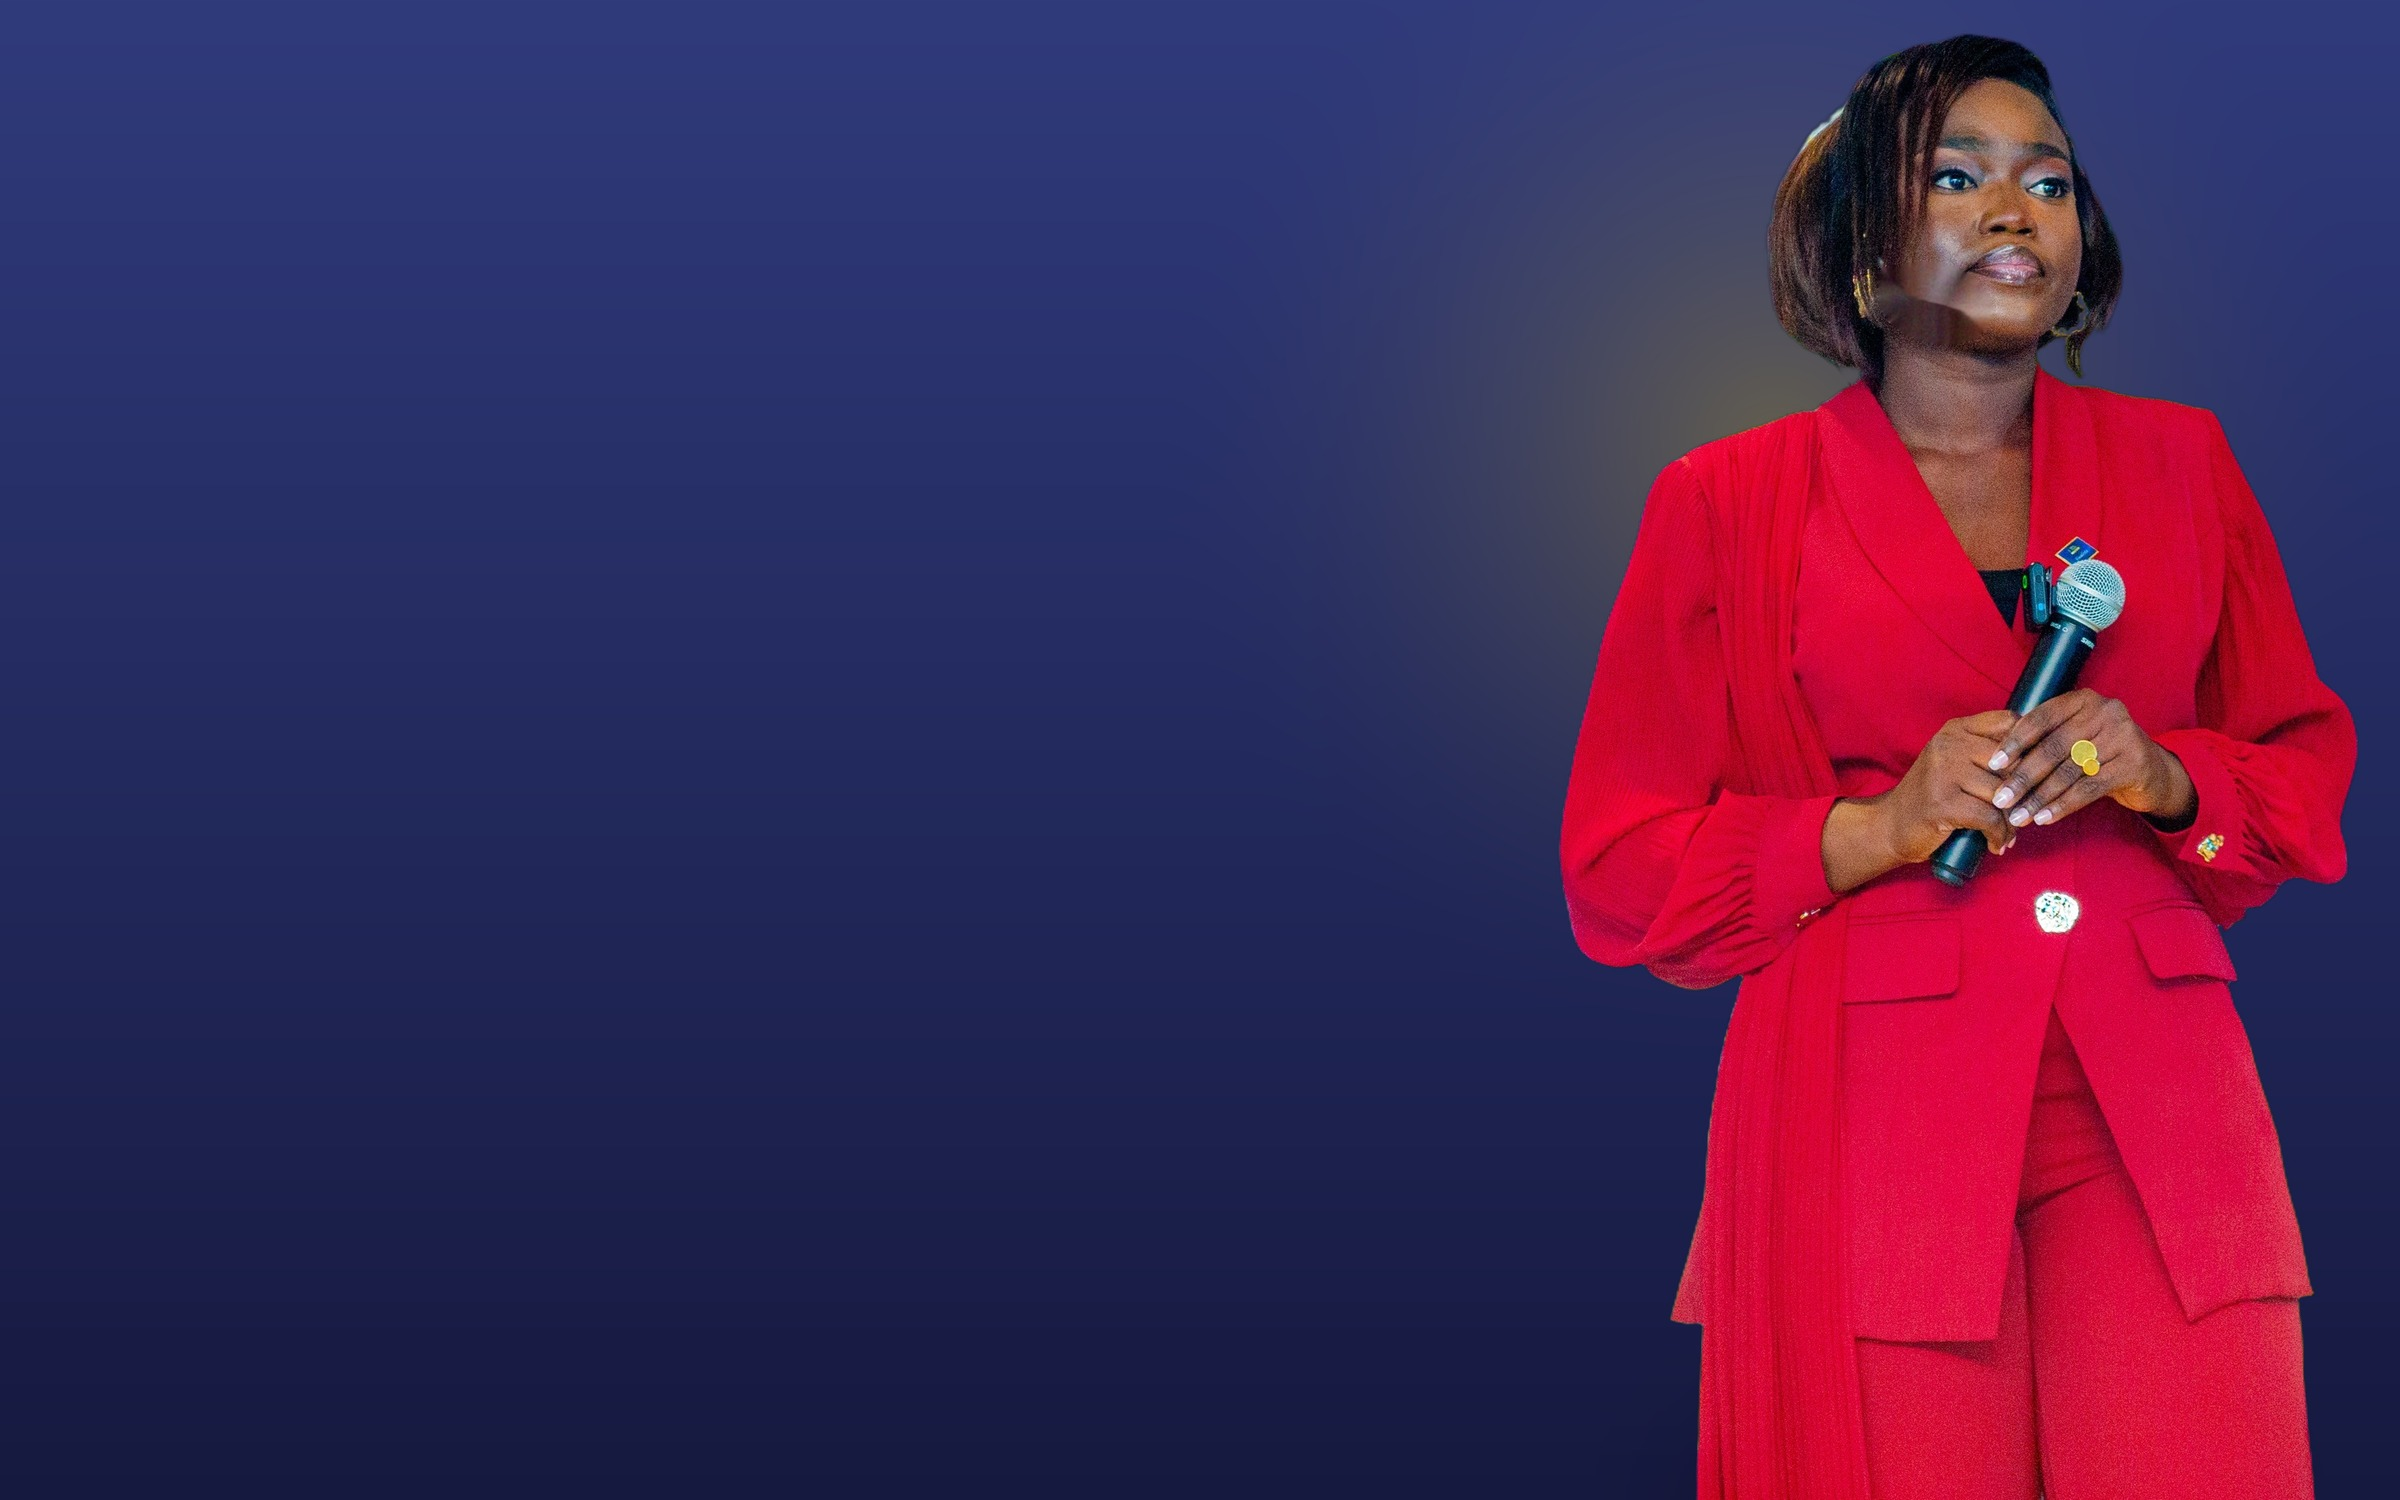
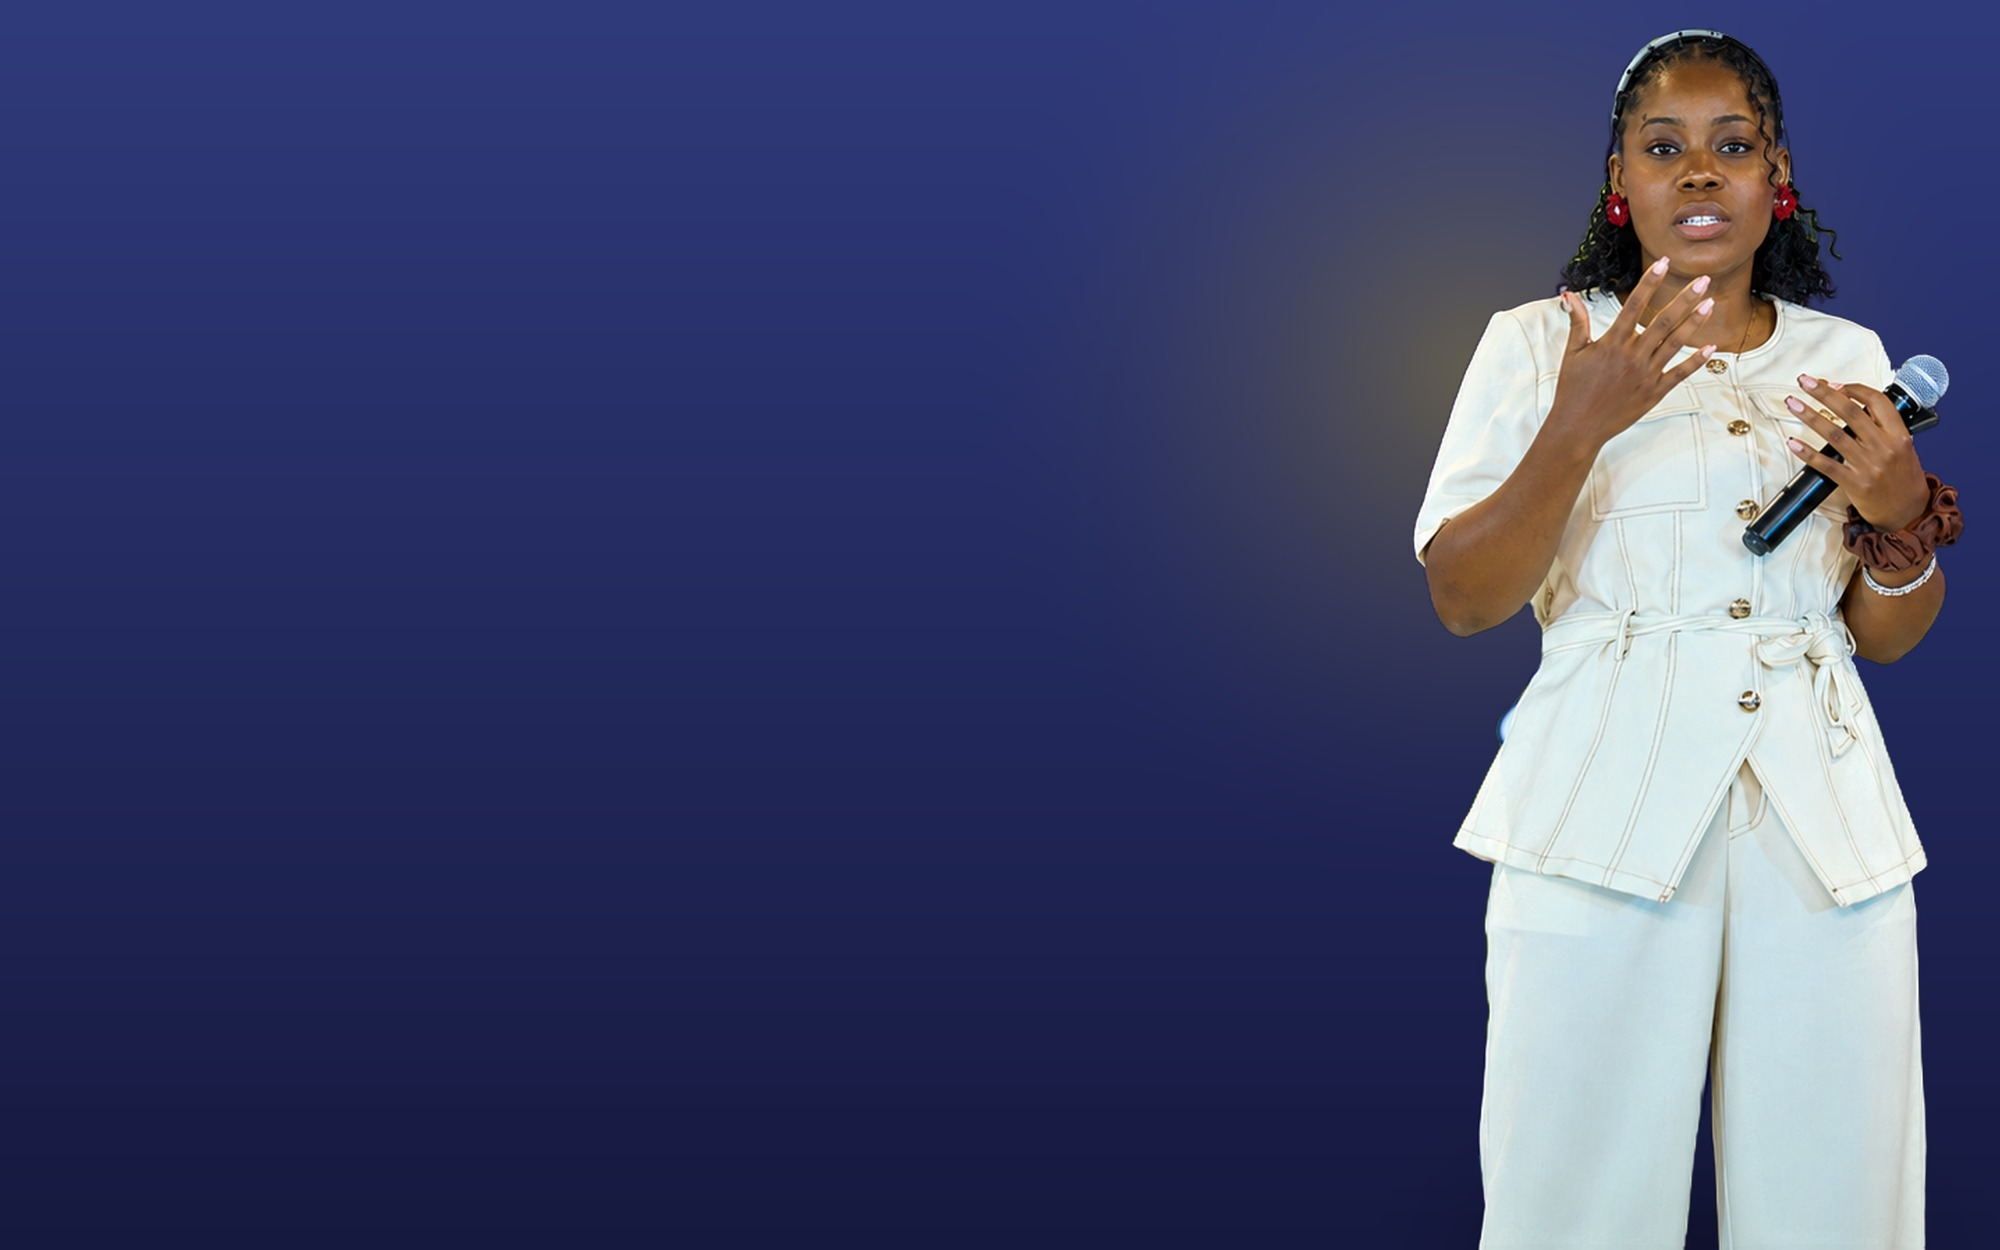
Swap hero photo for a more dynamic shot, tune layout at all breakpoints
Uses the candid shot where she's mid-gesture with the actual event
banner reading "La Scène qui Révèle les Orateurs" behind her — same
background-removal + navy/gold composite treatment as before, but a
livelier pose with a single mic already (no retouching needed this
time).

Also fixes text/portrait crowding on tablet and laptop widths
(768-1180px) where the hand was overlapping the headline: narrows the
hero text column and retunes background-position per breakpoint so
the subject stays clear of the text at every viewport.

Claude-Session: https://claude.ai/code/session_01UFBWohdkURgK6vPTjHtUun

Changed region(s): [[0.651, 0.0, 0.992, 1.0]]

diff --git a/assets/css/style.css b/assets/css/style.css
@@ -424,6 +424,11 @@ mark { background: var(--gold-soft); color: var(--navy-950); padding: 0 6px; bor
   .btn { white-space: normal; text-align: center; }
 }
 
+@media (max-width: 1180px) {
+  .hero-inner-single { max-width: 540px; }
+  .hero-photo-bg { background-position: 80% 14%; }
+}
+
 @media (max-width: 720px) {
   .main-nav {
     position: fixed; inset: 76px 0 0 0; background: var(--navy-950); padding: 24px;
@@ -437,7 +442,7 @@ mark { background: var(--gold-soft); color: var(--navy-950); padding: 0 6px; bor
   .ambitions-grid, .people-grid, .offer-grid, .stats-grid, .palmares-grid, .partenaires-grid, .two-col, .associated-grid, .chiffres-grid, .editions-grid, .nouveautes-grid, .ambitions-grid-light, .galerie-grid { grid-template-columns: repeat(2, 1fr); }
   .section { padding: 60px 0; }
   .hero { padding: 56px 0 44px; min-height: 480px; display: flex; align-items: flex-end; }
-  .hero-photo-bg { background-position: 78% 10%; }
+  .hero-photo-bg { background-position: 80% 16%; }
   .hero-inner { grid-template-columns: 1fr; }
   .hero-visual { order: -1; }
   .hero-visual img { aspect-ratio: 16 / 10; }

diff --git a/public/assets/css/style.css b/public/assets/css/style.css
@@ -424,6 +424,11 @@ mark { background: var(--gold-soft); color: var(--navy-950); padding: 0 6px; bor
   .btn { white-space: normal; text-align: center; }
 }
 
+@media (max-width: 1180px) {
+  .hero-inner-single { max-width: 540px; }
+  .hero-photo-bg { background-position: 80% 14%; }
+}
+
 @media (max-width: 720px) {
   .main-nav {
     position: fixed; inset: 76px 0 0 0; background: var(--navy-950); padding: 24px;
@@ -437,7 +442,7 @@ mark { background: var(--gold-soft); color: var(--navy-950); padding: 0 6px; bor
   .ambitions-grid, .people-grid, .offer-grid, .stats-grid, .palmares-grid, .partenaires-grid, .two-col, .associated-grid, .chiffres-grid, .editions-grid, .nouveautes-grid, .ambitions-grid-light, .galerie-grid { grid-template-columns: repeat(2, 1fr); }
   .section { padding: 60px 0; }
   .hero { padding: 56px 0 44px; min-height: 480px; display: flex; align-items: flex-end; }
-  .hero-photo-bg { background-position: 78% 10%; }
+  .hero-photo-bg { background-position: 80% 16%; }
   .hero-inner { grid-template-columns: 1fr; }
   .hero-visual { order: -1; }
   .hero-visual img { aspect-ratio: 16 / 10; }
